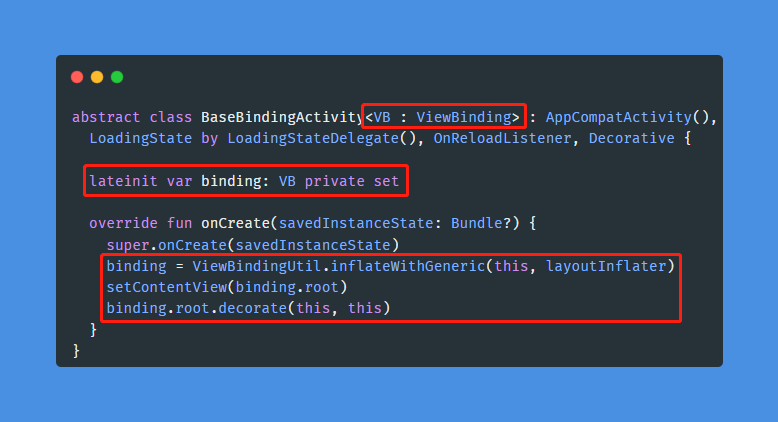
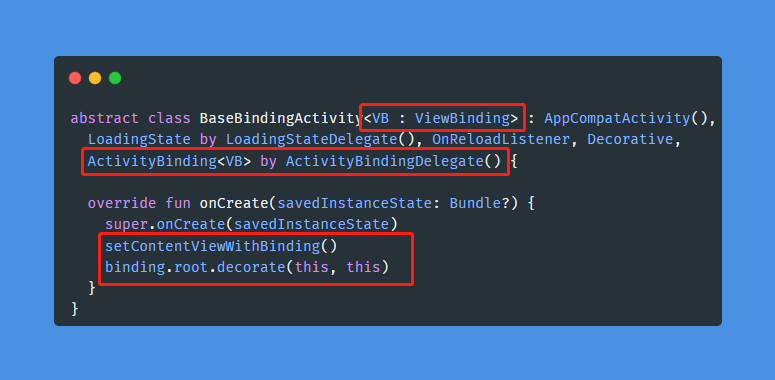
Prepare for release 4.0.1

Changed region(s): [[0.0619, 0.4921, 0.929, 0.8684], [0.0619, 0.2316, 0.929, 0.4921], [0.0619, 0.1158, 0.929, 0.2316]]

diff --git a/sample-kotlin/src/main/java/com/dylanc/loadingstateview/sample/kotlin/base/BaseBindingFragment.kt b/sample-kotlin/src/main/java/com/dylanc/loadingstateview/sample/kotlin/base/BaseBindingFragment.kt
@@ -18,6 +18,7 @@ package com.dylanc.loadingstateview.sample.kotlin.base
 
 import android.os.Bundle
 import android.view.LayoutInflater
+import android.view.View
 import android.view.ViewGroup
 import androidx.fragment.app.Fragment
 import androidx.viewbinding.ViewBinding
@@ -28,9 +29,13 @@ import com.dylanc.loadingstateview.OnReloadListener
 import com.dylanc.viewbinding.base.FragmentBinding
 import com.dylanc.viewbinding.base.FragmentBindingDelegate
 
-abstract class BaseBindingFragment<VB : ViewBinding> : Fragment(), OnReloadListener, Decorative,
-  LoadingState by LoadingStateDelegate(), FragmentBinding<VB> by FragmentBindingDelegate() {
+abstract class BaseBindingFragment<VB : ViewBinding> : Fragment(),
+  LoadingState by LoadingStateDelegate(), OnReloadListener, Decorative,
+  FragmentBinding<VB> by FragmentBindingDelegate() {
 
-  override fun onCreateView(inflater: LayoutInflater, container: ViewGroup?, savedInstanceState: Bundle?) =
-    createViewWithBinding(inflater, container).decorate(this, this)
+  override fun onCreateView(
+    inflater: LayoutInflater, container: ViewGroup?, savedInstanceState: Bundle?
+  ): View? {
+    return createViewWithBinding(inflater, container).decorate(this, this)
+  }
 }

diff --git a/sample-kotlin/src/main/java/com/dylanc/loadingstateview/sample/kotlin/base/BaseBindingActivity.kt b/sample-kotlin/src/main/java/com/dylanc/loadingstateview/sample/kotlin/base/BaseBindingActivity.kt
@@ -26,8 +26,9 @@ import com.dylanc.loadingstateview.OnReloadListener
 import com.dylanc.viewbinding.base.ActivityBinding
 import com.dylanc.viewbinding.base.ActivityBindingDelegate
 
-abstract class BaseBindingActivity<VB : ViewBinding> : AppCompatActivity(), OnReloadListener, Decorative,
-  LoadingState by LoadingStateDelegate(), ActivityBinding<VB> by ActivityBindingDelegate() {
+abstract class BaseBindingActivity<VB : ViewBinding> : AppCompatActivity(),
+  LoadingState by LoadingStateDelegate(), OnReloadListener, Decorative,
+  ActivityBinding<VB> by ActivityBindingDelegate() {
 
   override fun onCreate(savedInstanceState: Bundle?) {
     super.onCreate(savedInstanceState)

diff --git a/docs/zh/viewbinding.md b/docs/zh/viewbinding.md
@@ -27,7 +27,7 @@ LoadingStateView loadingStateView = new LoadingStateView(binding.getRoot(), onRe
 添加依赖：
 
 ```groovy
-implementation 'com.github.DylanCaiCoding.ViewBindingKTX:viewbinding-base:2.0.6'
+implementation 'com.github.DylanCaiCoding.ViewBindingKTX:viewbinding-base:2.1.0'
 ```
 
 根据[文档](https://dylancaicoding.github.io/ViewBindingKTX/#/zh/baseclass)集成 ViewBinding，再对 ViewBinding 的根视图进行装饰。以下是在委托用法基础上修改的代码：
@@ -38,35 +38,118 @@ implementation 'com.github.DylanCaiCoding.ViewBindingKTX:viewbinding-base:2.0.6'
 
 ![img.png](../img/base_binding_activity_code.png)
 
+<details>
+  <summary>查看代码</summary>
+
+```kotlin
+abstract class BaseBindingActivity<VB : ViewBinding> : AppCompatActivity(),
+  LoadingState by LoadingStateDelegate(), OnReloadListener, Decorative,
+  ActivityBinding<VB> by ActivityBindingDelegate() {
+
+  override fun onCreate(savedInstanceState: Bundle?) {
+    super.onCreate(savedInstanceState)
+    setContentViewWithBinding()
+    binding.root.decorate(this, this)
+  }
+}
+```
+
+</details>
+
 #### **Fragment**
 
 ![img.png](../img/base_binding_fragment_code.png)
 
+<details>
+  <summary>查看代码</summary>
+
+```kotlin
+abstract class BaseBindingFragment<VB : ViewBinding> : Fragment(),
+  LoadingState by LoadingStateDelegate(), OnReloadListener, Decorative,
+  FragmentBinding<VB> by FragmentBindingDelegate() {
+
+  override fun onCreateView(
+    inflater: LayoutInflater, container: ViewGroup?, savedInstanceState: Bundle?
+  ): View? {
+    return createViewWithBinding(inflater, container).decorate(this, this)
+  }
+}
+```
+
+</details>
+
 <!-- tabs:end -->
 
-由于给基类增加了 ViewBinding 泛型，会影响到已有基类的使用。那么对于已有的项目，建议继承原基类扩展出一个支持 ViewBinding 的基类。
+这样封装后不仅能在 Activity 或 Fragment 获取 `binding` 属性，还能很方便地指定显示缺省页的区域。
 
-我们还可以再改进一下，增加一个 `open val contentView` 属性，修改如下。
-
-<!-- tabs:start -->
-
-#### **Activity**
-
-![img.png](../img/base_binding_activity_code2.png)
-
-#### **Fragment**
-
-![img.png](../img/base_binding_fragment_code2.png)
-
-<!-- tabs:end -->
-
-这样重写 `contentView` 属性可任意指定显示缺省页的区域，比如用了 `DrawerLayout`，那么需要在 `DrawerLayout` 的子容器显示缺省页。
+比如我们在已有的项目迭代开发，一些页面的布局已经写了标题栏。如果直接调用 `showLoadingView()` 函数，缺省页会把标题栏给覆盖了，通常要在标题栏下方显示缺省页，此时就可以重写 `contentView` 属性，声明在哪个控件显示缺省页，比如：
 
 ```kotlin
 class MainActivity : BaseBindingActivity<ActivityMainBinding>() {
 
-  // ...
+  override fun onCreate(savedInstanceState: Bundle?) {
+    super.onCreate(savedInstanceState)
+    showLoadingView()
+    // ...
+  }
   
-  override val contentView get() = binding.contentContainer
+  override val contentView get() = binding.container
 }
 ```
+
+### 已有的基类如何修改
+
+由于要给基类增加 ViewBinding 泛型，肯定不可能直接修改基类，这会影响到已有的代码，建议继承原基类再扩展出一个支持 ViewBinding 的基类。
+
+假设已有的基类是这种常见的封装，通过 `getLayoutId()` 函数去设置布局。
+
+```java
+public abstract class BaseActivity extends AppCompatActivity {
+
+  @Override
+  protected void onCreate(@Nullable Bundle savedInstanceState) {
+    super.onCreate(savedInstanceState);
+    setContentView(getLayoutId());
+    initData();
+    initViews();
+  }
+
+  public abstract int getLayoutId();
+  public abstract void initData();
+  public abstract void initViews();
+}
+```
+
+目前直接继承是实现不了的，因为需要重写 `setContentView()` 的代码，所以要先将 `setContentView()` 抽到一个函数中。
+
+```java
+@Override
+protected void onCreate(@Nullable Bundle savedInstanceState) {
+  super.onCreate(savedInstanceState);
+  initContentView();
+  initData();
+  initViews();
+}
+
+protected void initContentView() {
+  setContentView(getLayoutId());
+}
+```
+
+之后就可以继承基类重写该函数替换掉原来的 `setContentView()` 工作。
+
+```kotlin
+abstract class BaseBindingActivity<VB : ViewBinding> : BaseActivity(),
+  LoadingState by LoadingStateDelegate(), OnReloadListener, Decorative,
+  ActivityBinding<VB> by ActivityBindingDelegate() {
+
+  override fun initContentView() {
+    setContentViewWithBinding()
+    binding.root.decorate(this, this)
+  }
+
+  override fun getLayoutId() = -1 // 使用 ViewBinding 后，就不需要布局 id 了
+}
+```
+
+Fragment 的修改也同理。

diff --git a/docs/zh/delegate.md b/docs/zh/delegate.md
@@ -8,7 +8,7 @@
 
 ```groovy
 dependencies {
-  implementation 'com.github.DylanCaiCoding.LoadingStateView:loadingstateview-ktx:4.0.0'
+  implementation 'com.github.DylanCaiCoding.LoadingStateView:loadingstateview-ktx:4.0.1'
 }
 ```
 
@@ -23,9 +23,44 @@ dependencies {
 
 ![img.png](../img/base_activity_code.png)
 
+<details>
+  <summary>查看代码</summary>
+
+```kotlin
+abstract class BaseActivity(private val layoutRes: Int) : AppCompatActivity(),
+  LoadingState by LoadingStateDelegate(), OnReloadListener, Decorative {
+
+  override fun onCreate(savedInstanceState: Bundle?) {
+    super.onCreate(savedInstanceState)
+    setContentView(layoutRes)
+    decorateContentView(this, this)
+  }
+}
+```
+
+</details>
+
 #### **Fragment**
 
 ![img.png](../img/base_fragment_code.png)
+
+<details>
+  <summary>查看代码</summary>
+
+```kotlin
+abstract class BaseFragment(private val layoutRes: Int) : Fragment(),
+  LoadingState by LoadingStateDelegate(), OnReloadListener, Decorative {
+
+  override fun onCreateView(
+    inflater: LayoutInflater, container: ViewGroup?, savedInstanceState: Bundle?
+  ): View? {
+    val root = inflater.inflate(layoutRes, container, false)
+    return root.decorate(this, this)
+  }
+}
+```
+
+</details>
 
 <!-- tabs:end -->
 
@@ -173,13 +208,13 @@ class ToolbarViewDelegate : BaseToolbarViewDelegate() {
 var ToolbarConfig.rightTextColor: Int? by toolbarExtras() // 增加 rightTextColor 扩展属性
 
 class ToolbarViewDelegate : BaseToolbarViewDelegate() {
-   
-   // ...
-   
-   override fun onBindToolbar(config: ToolbarConfig) {
-     // ... 
-     config.rightTextColor?.let { tvRight.setTextColor(it) } // 处理扩展属性
-   }
+
+  // ...
+
+  override fun onBindToolbar(config: ToolbarConfig) {
+    // ... 
+    config.rightTextColor?.let { tvRight.setTextColor(it) } // 处理扩展属性
+  }
 }
 ```
 
@@ -282,7 +317,7 @@ setHeaders(
 
 ```kotlin
 class ScrollingDecorViewDelegate(
-  private val activity: Activity, 
+  private val activity: Activity,
   private val title: String
 ) : LoadingStateView.DecorViewDelegate() {
 

diff --git a/docs/zh/migration-guide.md b/docs/zh/migration-guide.md
@@ -1,5 +1,5 @@
 # 老版本升级指南
 
-`4.0.0` 版本对用法进行了优化，移除了 `ViewHolder`，使用起来更加简单，不过就意味着不能兼容之前的代码。建议根据[文档](/zh/basic-usage)改成新的用法，通常是封装在基类，要改的不多，`ViewHolder` 的代码需要移到 `onCreateView()` 中。
+`4.0.1` 版本对用法进行了优化，移除了 `ViewHolder`，使用起来更加简单，不过就意味着不能兼容之前的代码。建议根据[文档](/zh/basic-usage)改成新的用法，通常是封装在基类，要改的不多，`ViewHolder` 的代码需要移到 `onCreateView()` 中。
 
 但是如果报红的地方特别多，个人有一个折中的方案。由于之前版本只有一个两三百行的 kt 文件，那么可以把源码拷贝出来并删除依赖，也就是说改成源码的方式集成，全局改一下相关包名。然后就可以添加新版本依赖进行使用，再慢慢将老用法改成新用法。

diff --git a/README.md b/README.md
@@ -55,10 +55,10 @@ Add dependencies in your module `build.gradle` :
 ```groovy
 dependencies {
     // java
-    implementation 'com.github.DylanCaiCoding.LoadingStateView:loadingstateview:4.0.0'
+    implementation 'com.github.DylanCaiCoding.LoadingStateView:loadingstateview:4.0.1'
 
     // kotlin
-    implementation 'com.github.DylanCaiCoding.LoadingStateView:loadingstateview-ktx:4.0.0'
+    implementation 'com.github.DylanCaiCoding.LoadingStateView:loadingstateview-ktx:4.0.1'
 }
 ```
 

diff --git a/docs/README.md b/docs/README.md
@@ -53,10 +53,10 @@ allprojects {
 ```groovy
 dependencies {
     // java
-    implementation 'com.github.DylanCaiCoding.LoadingStateView:loadingstateview:4.0.0'
+    implementation 'com.github.DylanCaiCoding.LoadingStateView:loadingstateview:4.0.1'
     
     // kotlin
-    implementation 'com.github.DylanCaiCoding.LoadingStateView:loadingstateview-ktx:4.0.0'
+    implementation 'com.github.DylanCaiCoding.LoadingStateView:loadingstateview-ktx:4.0.1'
 }
 ```
 

diff --git a/README_ZH.md b/README_ZH.md
@@ -57,10 +57,10 @@ allprojects {
 ```groovy
 dependencies {
     // java
-    implementation 'com.github.DylanCaiCoding.LoadingStateView:loadingstateview:4.0.0'
+    implementation 'com.github.DylanCaiCoding.LoadingStateView:loadingstateview:4.0.1'
 
     // kotlin
-    implementation 'com.github.DylanCaiCoding.LoadingStateView:loadingstateview-ktx:4.0.0'
+    implementation 'com.github.DylanCaiCoding.LoadingStateView:loadingstateview-ktx:4.0.1'
 }
 ```
 
